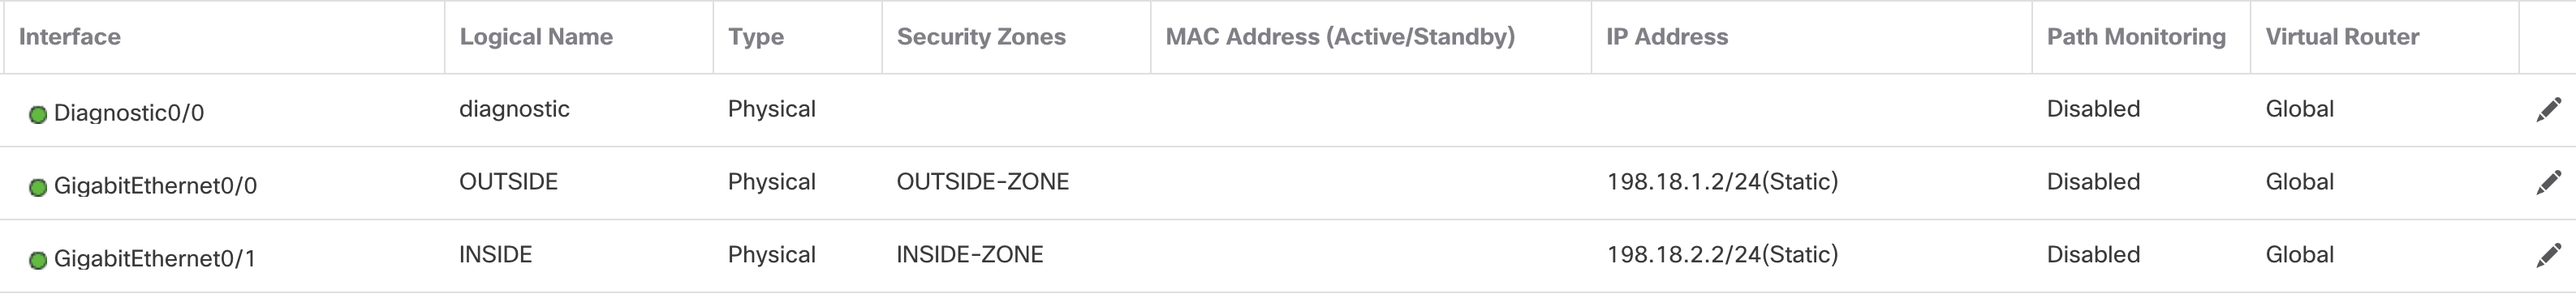
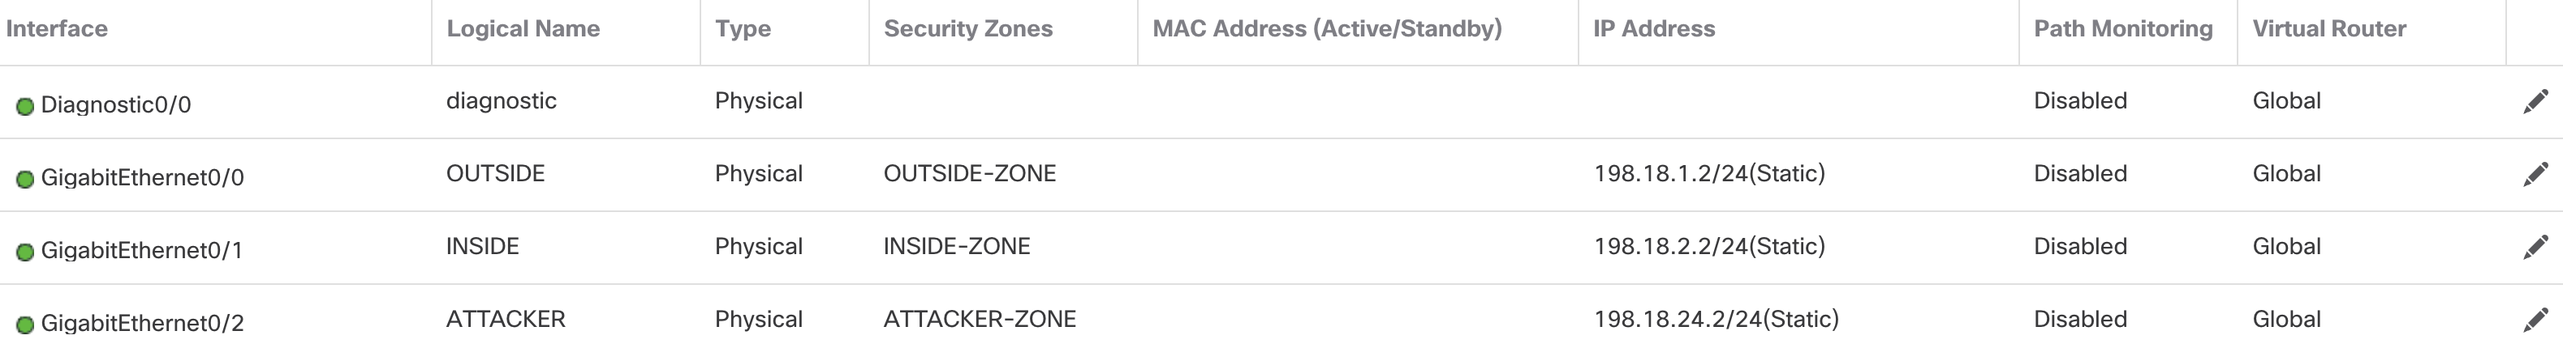
b

diff --git a/1.4 FMC Integration.md b/1.4 FMC Integration.md
@@ -1,6 +1,6 @@
 ### Integrate Firewall Management with Splunk via eStreamer (30m)
 
-1. Logint to FMC via web-console, check the IP address and set the default GW to 198.18.128.1
+1. Logint to FMC via web-console (it's a CLI access via web interface), check the IP address and set the default GW to 198.18.128.1
 ```bash
 expert
 sudo /usr/local/sf/bin/configure-network
@@ -36,7 +36,7 @@ configure manager add 198.18.133.102 your_secret_key
 ---
 ![](attachments/splunk_app.png)
 
-7. Let's install first the Cisco Secure eStreamer APP. Logint to Splunk and go to Apps --> Find More Apps --> Browse for: Cisco Secure eStreamer. (if you get a "No route to host error message, add 208.67.222.222 dns server to resolv.conf --> nano /etc/resolv/conf and add a line nameserver 208.67.222.222)
+7. Let's install first the Cisco Secure eStreamer APP. Logint to Splunk and go to Apps --> Find More Apps --> Browse for: Cisco Secure eStreamer. (if you get a "No route to host error message, add 208.67.222.222 dns server to resolv.conf --> nano /etc/resolv.conf and add a line nameserver 208.67.222.222)
 ---
 ![](attachments/browse_estreamer.png)
 
@@ -137,7 +137,23 @@ tech details: https://www.cisco.com/c/en/us/td/docs/security/firepower/splunk/Ci
 
 ![](attachments/firewall_app1.png)
 
-20. Configure firepower's OUTSIDE and INSIDE interfaces. Login to FMC and go to Devices --> Device Management --> click on FTD with IP:198.18.133.200 --> Click GigabitEthernet0/0  - 0/1 and assigned an IP address - OUTSODE:198.18.1.2/24 and INSIDE:198.18.2.2/24. Click OK and Save.
+20. Configure firepower's OUTSIDE and INSIDE interfaces. Login to FMC and go to Devices --> Device Management --> click on FTD with IP:198.18.133.200
+- Click GigabitEthernet0/0 and assigne:
+    - Name: OUTSIDE
+    - Enable: ON
+    - IP address 198.18.1.2/24
+    - Security Zone: OUTSIDE-ZONE
+- Click GigabitEthernet0/1 and configure:
+    - Name: INSIDE
+    - Enable: ON
+    - IP address 198.18.2.2/24.
+    - Security Zone: INSIDE-ZONE
+- click gigabitEternet0/2 and:
+    - Name: ATTACKER
+    - Enable: ON
+    - IP address: 198.18.24.2/24
+    - Security Zone: ATTACKER-ZONE    
+Click OK and Save.
 ---
 ![](attachments/ftd-IP.png)
 
@@ -145,12 +161,17 @@ tech details: https://www.cisco.com/c/en/us/td/docs/security/firepower/splunk/Ci
 ---
 ![](attachments/defroute.png)
 
-22. Configure NAT, so clients on INSIDE network should have internet access via FTD.
+22. Deploy the configuration if you haven't done it so far. Configure NAT, so clients on INSIDE network should have internet access via FTD. Go to Device --> NAT --> Threat Defense NAT Policy and:
+- Name it
+- pick the Firepower device (198.18.133.200) and add to Policy --> Save it.
+- Add NAT rule (top right corner)
 ---
 ![](attachments/nat1.png)
+
+note: Create an INSIDE-LAN network object: 198.18.2.0/24
 ![](attachments/nat2.png)
 
-23. Creat a rule in the Access-Policy with logging ON. You might alrady have one acesss-policy (Base-policy) assigned to the FTD.
+23. Create a rule in the Access-Policy with logging enabled. You might already have an Access-Policy (Base Policy) assigned to the FTD.
 ---
 ![](attachments/access-policy1.png)
 
@@ -159,10 +180,11 @@ tech details: https://www.cisco.com/c/en/us/td/docs/security/firepower/splunk/Ci
 ![](attachments/deploy.png)
 
 25. Log in to win10 PC via VM Console (or RD), assig the IP address and default gateway (FTD's INSIDE interface).
+Note: use public DNS resolver: 208.67.222.222
 ---
 ![](attachments/client1.png)
 
-26. Check internet access, ping, dns, web etc. You should see logs:
+26. Check internet access from the PC by performing tasks such as pinging, testing DNS resolution, and accessing websites. If everything is functioning correctly, you should see the corresponding logs:
 - in the FMC's Unified View 
 - in Splunk search and in Splunk APP for Firepower as well
 ---

diff --git a/1.6 Kali linux conf.md b/1.6 Kali linux conf.md
@@ -1,0 +1,50 @@
+### pre-conf the Kali linux for offensive attack testing (10m)
+
+1. Loging to Kali linux via VM Console and assigne
+- IP address: 198.18.24.100/24
+- Subnet: 255.255.255.0
+- Gateway: 198.18.24.1
+
+Note: gateway's last IP octet is .2
+
+```bash
+nano /etc/network/interfaces
+```
+
+```bash
+address 198.18.24.100
+netmask 255.255.255.0
+broadcast 198.18.24.255
+gateway 198.18.24.2
+```
+
+```bash
+sudo ifdonw eth0
+sudo ifup eth0
+ip add
+```
+2. Set the DNS server to: 208.67.222.222
+```bash
+$ sudo nano /etc/resolv.conf
+
+nameserver 208.67.222.222
+```
+
+3. Configure the Firewall NAT policy so the Kali box has access to the internet. 
+- Go to Devices --> NAT 
+- Edit the existing NAT rule created in the previous step
+- Add a new "Auto NAT Rule" with the following paramteres:
+![](attachments/1.6-kali_nat1.png)
+- Create a network object with: 198.18.24.0/24
+![](attachments/1.6-kali_nat2.png)
+- Move to the "Translation tab"
+![](attachments/1.6-kali_nat3.png)
+
+4. Save the configuration and Deploy it!
+5. Check the FMC's "Unified Viewer" for logs.
+
+5. update and upgrade the system
+```bash
+sudo apt update
+sudo apt upgrade
+```

diff --git a/1.2 Data Inputs.md b/1.2 Data Inputs.md
@@ -14,7 +14,7 @@
 
 4. Change Source type: linux_secure and hit next.
 ---
-![](attachments/linux_secure)
+![](attachments/linux_secure.png)
 
 5. Create a new index and name it, e.g., linux_secure_index
 ---
@@ -43,6 +43,7 @@
 ![](attachments/admin_timezone.png)
 
 12. Generate some authentication failure log messages connecting to Splunk server via SSH and mistype the password.
+Note: After configuring the firewall's "INSIDE" interface (Section 1.4, task 20), you can use the Hydra tool from the client machine to brute force user accounts, which will generate numerous login failure log entries. Return to this step once you have completed that task.
 ---
 ![](attachments/failed_ssh.png)
 

diff --git a/1.3 Visualization.md b/1.3 Visualization.md
@@ -18,7 +18,7 @@
 
 5. Add this time a Line chart to our dashboard.
 - Search for index= linux_secure_index
-- click on visualization
+- click on visualization and choose Pivot (All fields)
 - Select Line Chart and at Y-Axis section change to Label:Events
 ---
 ![](attachments/line_chart.png)

diff --git a/1.5 IPS, Malware and TLS decrypt policies.md b/1.5 IPS, Malware and TLS decrypt policies.md
@@ -19,7 +19,7 @@
 ---
 ![](attachments/ips1.png)
 
-- Click on Snort 3 Version to edit the IPS policy
+- Click on Snort 3 Version to edit the IPS policy (Right-upper corner)
 - Click on Recommendation (Not in Use - yet!) and hit Start.
 ---
 ![](attachments/recommendation.png)
